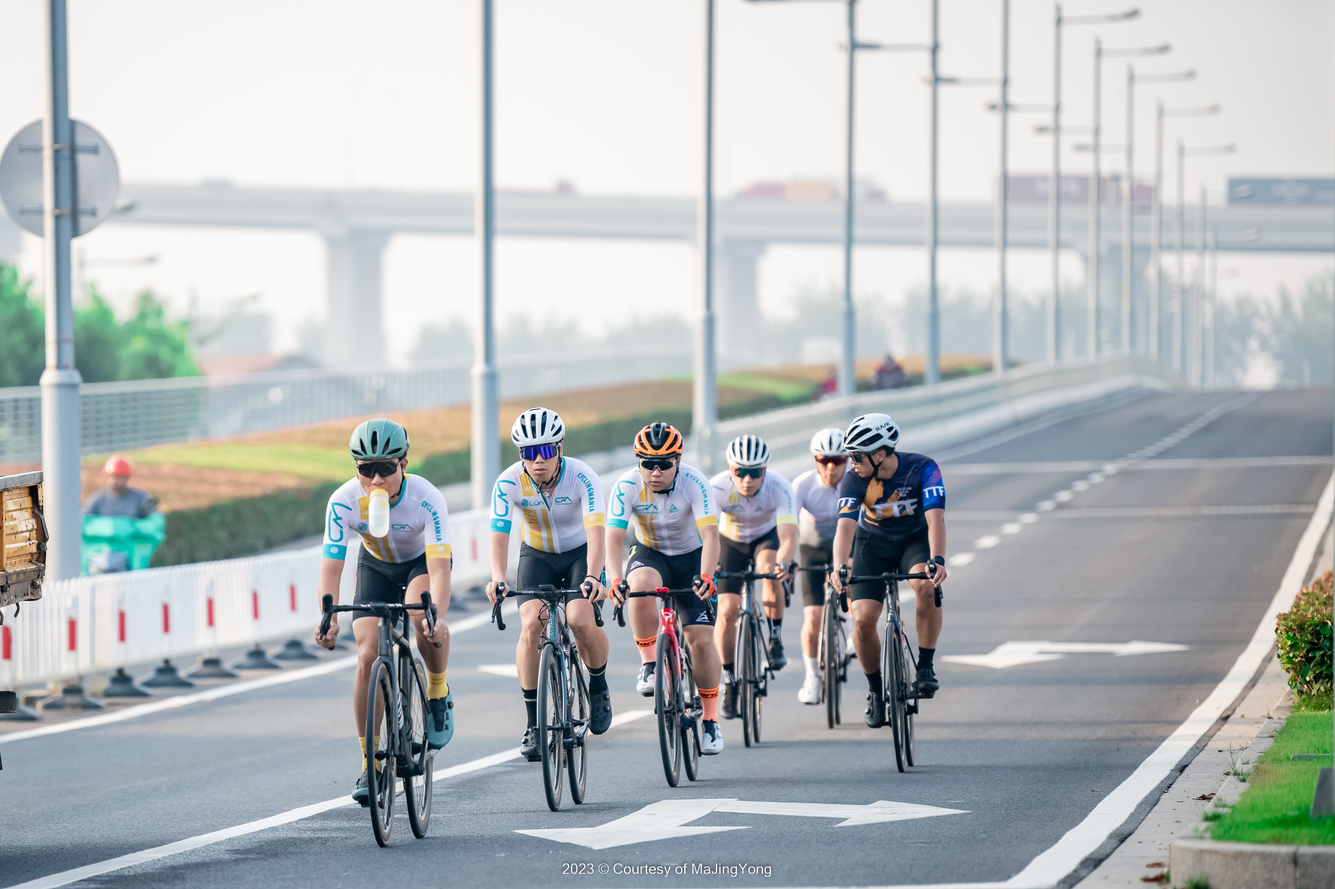
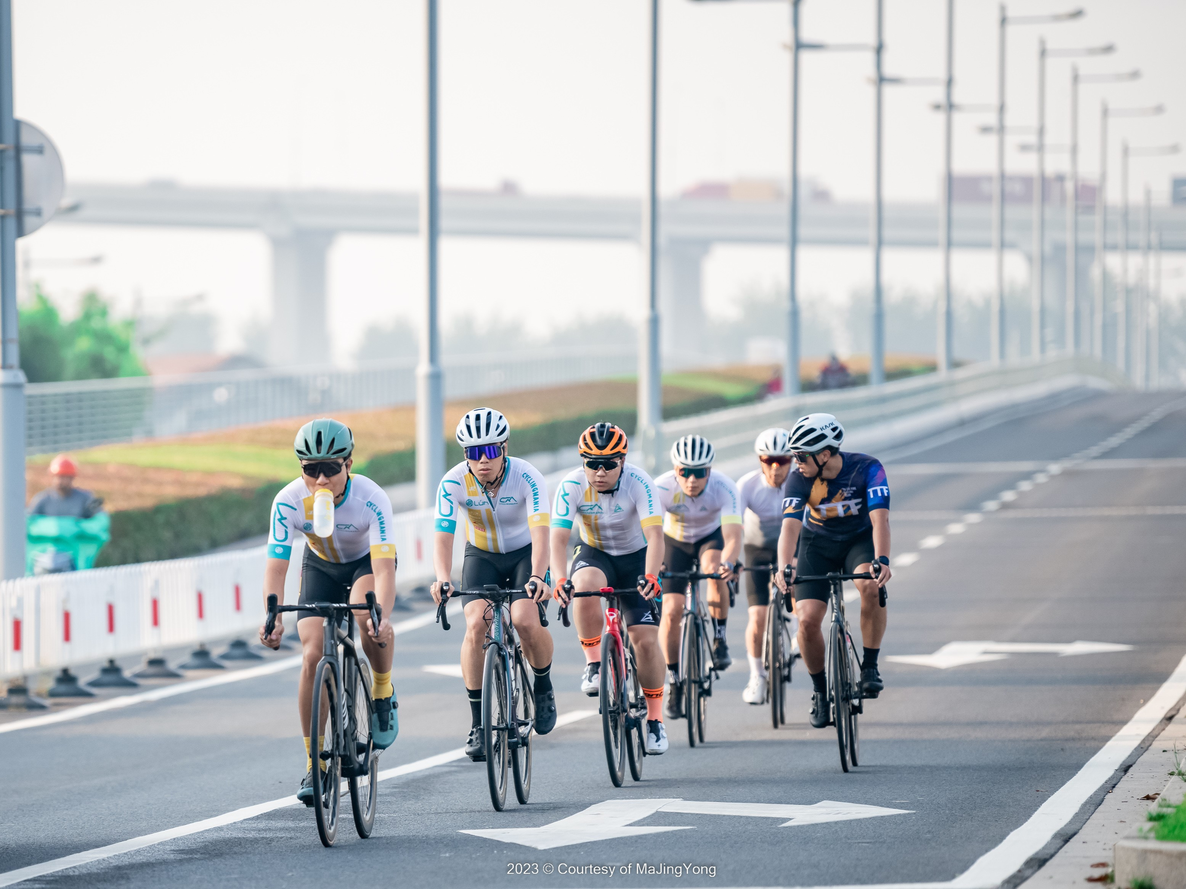
3:4 adapted

diff --git a/styles.css b/styles.css
@@ -280,13 +280,19 @@ footer p {
 }
 
 .gallery-item {
+    position: relative;
     overflow: hidden;
+    padding-top: 75%; /* 4:3 aspect ratio (height is 75% of the width) */
     border-radius: 10px;
 }
 
 .gallery-img {
+    position: absolute;
+    top: 0;
+    left: 0;
     width: 100%;
-    height: auto;
+    height: 100%;
+    object-fit: cover; /* Ensures the image covers the container, maintaining the aspect ratio */
     cursor: pointer;
     transition: transform 0.3s ease;
 }
